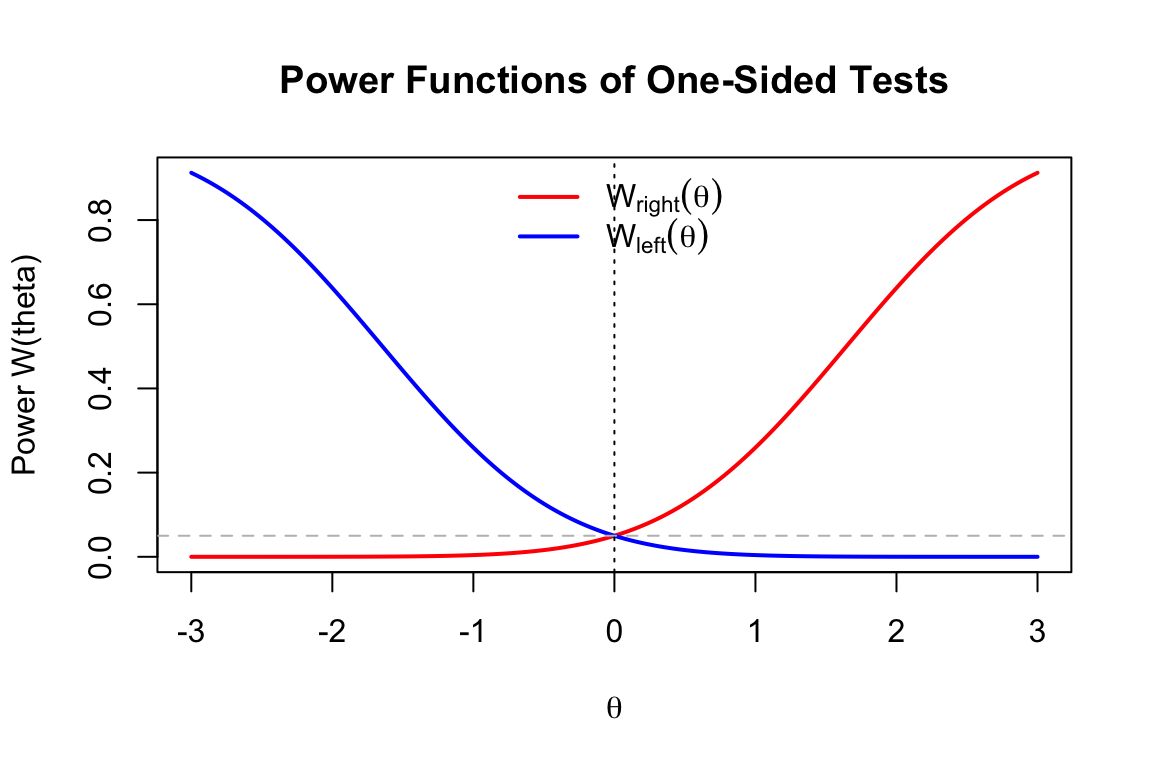
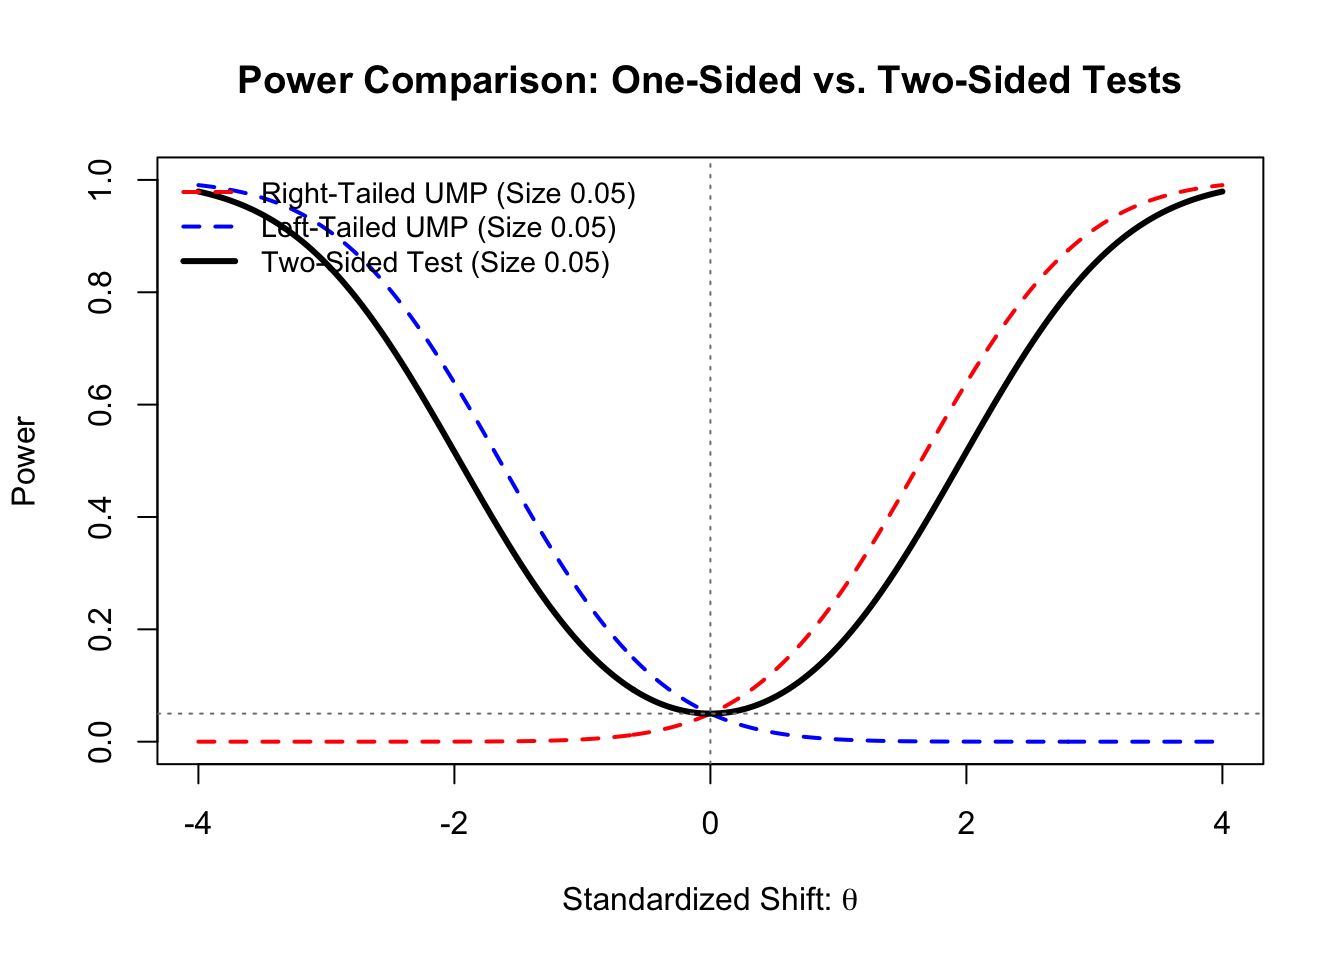
syn2GH from KNW5YYVTFD

diff --git a/teaching/stat850/mathstat/hypothesis.html b/teaching/stat850/mathstat/hypothesis.html
@@ -260,17 +260,18 @@ window.Quarto = {
   <li><a href="#monotone-likelihood-ratio-mlr" id="toc-monotone-likelihood-ratio-mlr" class="nav-link" data-scroll-target="#monotone-likelihood-ratio-mlr"><span class="header-section-number">7.4</span> Monotone Likelihood Ratio (MLR)</a>
   <ul>
   <li><a href="#karlin-rubin-theorem" id="toc-karlin-rubin-theorem" class="nav-link" data-scroll-target="#karlin-rubin-theorem"><span class="header-section-number">7.4.1</span> Karlin-Rubin Theorem</a></li>
-  <li><a href="#non-existence-of-ump-for-two-sided-hypotheses" id="toc-non-existence-of-ump-for-two-sided-hypotheses" class="nav-link" data-scroll-target="#non-existence-of-ump-for-two-sided-hypotheses"><span class="header-section-number">7.4.2</span> Non-Existence of UMP for Two-Sided Hypotheses</a></li>
   </ul></li>
-  <li><a href="#lrt-score-and-walds-tests" id="toc-lrt-score-and-walds-tests" class="nav-link" data-scroll-target="#lrt-score-and-walds-tests"><span class="header-section-number">7.5</span> LRT, Score, and Wald’s Tests</a>
+  <li><a href="#non-existence-of-ump-for-two-sided-hypotheses" id="toc-non-existence-of-ump-for-two-sided-hypotheses" class="nav-link" data-scroll-target="#non-existence-of-ump-for-two-sided-hypotheses"><span class="header-section-number">7.5</span> Non-Existence of UMP for Two-Sided Hypotheses</a></li>
+  <li><a href="#lrt-score-and-walds-tests" id="toc-lrt-score-and-walds-tests" class="nav-link" data-scroll-target="#lrt-score-and-walds-tests"><span class="header-section-number">7.6</span> LRT, Score, and Wald’s Tests</a>
   <ul>
-  <li><a href="#walds-theorem-for-testing-parameter-restrictions" id="toc-walds-theorem-for-testing-parameter-restrictions" class="nav-link" data-scroll-target="#walds-theorem-for-testing-parameter-restrictions"><span class="header-section-number">7.5.1</span> Wald’s Theorem for Testing Parameter Restrictions</a></li>
-  <li><a href="#raos-score-lagrange-multiplier-theorem-for-restricted-models" id="toc-raos-score-lagrange-multiplier-theorem-for-restricted-models" class="nav-link" data-scroll-target="#raos-score-lagrange-multiplier-theorem-for-restricted-models"><span class="header-section-number">7.5.2</span> Rao’s Score (Lagrange Multiplier) Theorem for Restricted Models</a></li>
-  <li><a href="#a-comparison-of-finite-sample-distributions-of-the-three-asymptotic-tests-in-ols" id="toc-a-comparison-of-finite-sample-distributions-of-the-three-asymptotic-tests-in-ols" class="nav-link" data-scroll-target="#a-comparison-of-finite-sample-distributions-of-the-three-asymptotic-tests-in-ols"><span class="header-section-number">7.5.3</span> A Comparison of Finite-Sample Distributions of the Three Asymptotic Tests in OLS</a>
+  <li><a href="#walds-theorem-for-testing-parameter-restrictions" id="toc-walds-theorem-for-testing-parameter-restrictions" class="nav-link" data-scroll-target="#walds-theorem-for-testing-parameter-restrictions"><span class="header-section-number">7.6.1</span> Wald’s Theorem for Testing Parameter Restrictions</a></li>
+  <li><a href="#raos-score-lagrange-multiplier-theorem-for-restricted-models" id="toc-raos-score-lagrange-multiplier-theorem-for-restricted-models" class="nav-link" data-scroll-target="#raos-score-lagrange-multiplier-theorem-for-restricted-models"><span class="header-section-number">7.6.2</span> Rao’s Score (Lagrange Multiplier) Theorem for Restricted Models</a></li>
+  <li><a href="#a-comparison-of-finite-sample-distributions-of-the-three-asymptotic-tests-in-ols" id="toc-a-comparison-of-finite-sample-distributions-of-the-three-asymptotic-tests-in-ols" class="nav-link" data-scroll-target="#a-comparison-of-finite-sample-distributions-of-the-three-asymptotic-tests-in-ols"><span class="header-section-number">7.6.3</span> A Comparison of Finite-Sample Distributions of the Three Asymptotic Tests in OLS</a>
   <ul class="collapse">
-  <li><a href="#exact-finite-sample-distributions-via-the-f-statistic" id="toc-exact-finite-sample-distributions-via-the-f-statistic" class="nav-link" data-scroll-target="#exact-finite-sample-distributions-via-the-f-statistic"><span class="header-section-number">7.5.3.1</span> Exact Finite-Sample Distributions via the F-Statistic</a></li>
-  <li><a href="#visualizing-finite-sample-calibration-size-distortion" id="toc-visualizing-finite-sample-calibration-size-distortion" class="nav-link" data-scroll-target="#visualizing-finite-sample-calibration-size-distortion"><span class="header-section-number">7.5.3.2</span> Visualizing Finite-Sample Calibration (Size Distortion)</a></li>
-  <li><a href="#exact-finite-sample-distribution-calibration-plot" id="toc-exact-finite-sample-distribution-calibration-plot" class="nav-link" data-scroll-target="#exact-finite-sample-distribution-calibration-plot"><span class="header-section-number">7.5.3.3</span> Exact Finite-Sample Distribution Calibration Plot</a></li>
+  <li><a href="#exact-finite-sample-distributions-via-the-f-statistic" id="toc-exact-finite-sample-distributions-via-the-f-statistic" class="nav-link" data-scroll-target="#exact-finite-sample-distributions-via-the-f-statistic"><span class="header-section-number">7.6.3.1</span> Exact Finite-Sample Distributions via the F-Statistic</a></li>
+  <li><a href="#asymptotic-equivalence-in-ols" id="toc-asymptotic-equivalence-in-ols" class="nav-link" data-scroll-target="#asymptotic-equivalence-in-ols"><span class="header-section-number">7.6.3.2</span> Asymptotic Equivalence in OLS</a></li>
+  <li><a href="#visualizing-finite-sample-calibration-size-distortion" id="toc-visualizing-finite-sample-calibration-size-distortion" class="nav-link" data-scroll-target="#visualizing-finite-sample-calibration-size-distortion"><span class="header-section-number">7.6.3.3</span> Visualizing Finite-Sample Calibration (Size Distortion)</a></li>
+  <li><a href="#exact-finite-sample-distribution-calibration-plot" id="toc-exact-finite-sample-distribution-calibration-plot" class="nav-link" data-scroll-target="#exact-finite-sample-distribution-calibration-plot"><span class="header-section-number">7.6.3.4</span> Exact Finite-Sample Distribution Calibration Plot</a></li>
   </ul></li>
   </ul></li>
   </ul>
@@ -980,40 +981,66 @@ Figure&nbsp;7.5: Visualizing Monotonicity of Power Function <span class="math in
 <p>This test form does not depend on the specific <span class="math inline">\(\theta_1\)</span>, so it is UMP for all <span class="math inline">\(\theta &gt; \theta_0\)</span>.</p>
 </div>
 </section>
-<section id="non-existence-of-ump-for-two-sided-hypotheses" class="level3" data-number="7.4.2">
-<h3 data-number="7.4.2" class="anchored" data-anchor-id="non-existence-of-ump-for-two-sided-hypotheses"><span class="header-section-number">7.4.2</span> Non-Existence of UMP for Two-Sided Hypotheses</h3>
+</section>
+<section id="non-existence-of-ump-for-two-sided-hypotheses" class="level2" data-number="7.5">
+<h2 data-number="7.5" class="anchored" data-anchor-id="non-existence-of-ump-for-two-sided-hypotheses"><span class="header-section-number">7.5</span> Non-Existence of UMP for Two-Sided Hypotheses</h2>
 <p>For testing a point null hypothesis <span class="math inline">\(H_0: \theta = \theta^*\)</span> against a two-sided alternative <span class="math inline">\(H_1: \theta \neq \theta^*\)</span> in a family with a monotone likelihood ratio (e.g., Normal, Exponential), a Uniformly Most Powerful (UMP) test generally <strong>does not exist</strong>. The non-existence proof relies on the uniqueness of the Most Powerful (MP) test derived from the Neyman-Pearson Lemma:</p>
 <ol type="1">
-<li><p><strong>Conflict of Optimal Regions:</strong></p>
-<p>Consider a specific alternative <span class="math inline">\(\theta_1 &gt; \theta^*\)</span>. By the Neyman-Pearson Lemma, the MP test <span class="math inline">\(\phi_1\)</span> rejects <span class="math inline">\(H_0\)</span> for large values of the sufficient statistic <span class="math inline">\(T(\mathbf{X}) &gt; k_1\)</span>. Conversely, consider an alternative <span class="math inline">\(\theta_2 &lt; \theta^*\)</span>. The MP test <span class="math inline">\(\phi_2\)</span> rejects <span class="math inline">\(H_0\)</span> for small values of the statistic <span class="math inline">\(T(\mathbf{X}) &lt; k_2\)</span>.</p></li>
-<li><p><strong>Failure of Uniformity:</strong></p>
-<p>A UMP test <span class="math inline">\(\phi^*\)</span> would need to be the MP test for <em>every</em> <span class="math inline">\(\theta \in H_1\)</span>.</p>
+<li><p><strong>Conflict of Optimal Regions:</strong> Consider a specific alternative <span class="math inline">\(\theta_1 &gt; \theta^*\)</span>. By the Neyman-Pearson Lemma, the MP test <span class="math inline">\(\phi_1\)</span> rejects <span class="math inline">\(H_0\)</span> for large values of the sufficient statistic <span class="math inline">\(T(\mathbf{X}) &gt; k_1\)</span>. Conversely, consider an alternative <span class="math inline">\(\theta_2 &lt; \theta^*\)</span>. The MP test <span class="math inline">\(\phi_2\)</span> rejects <span class="math inline">\(H_0\)</span> for small values of the statistic <span class="math inline">\(T(\mathbf{X}) &lt; k_2\)</span>.</p></li>
+<li><p><strong>Failure of Uniformity:</strong> A UMP test <span class="math inline">\(\phi^*\)</span> would need to be the MP test for <em>every</em> <span class="math inline">\(\theta \in H_1\)</span>.</p>
 <ul>
 <li>For <span class="math inline">\(\phi^*\)</span> to be most powerful against <span class="math inline">\(\theta_1\)</span>, it must be equivalent to <span class="math inline">\(\phi_1\)</span> (rejecting in the right tail).</li>
 <li>For <span class="math inline">\(\phi^*\)</span> to be most powerful against <span class="math inline">\(\theta_2\)</span>, it must be equivalent to <span class="math inline">\(\phi_2\)</span> (rejecting in the left tail).</li>
 </ul></li>
-<li><p><strong>Biased Power Function:</strong></p>
-<p>The MP test <span class="math inline">\(\phi_1\)</span> (Right-Sided) has a power function that drops below the size <span class="math inline">\(\alpha\)</span> for values <span class="math inline">\(\theta &lt; \theta^*\)</span>. Therefore, it cannot be the most powerful test for <span class="math inline">\(\theta_2\)</span>, as there exists a valid test (e.g., <span class="math inline">\(\phi_2\)</span>) with power strictly greater than <span class="math inline">\(\alpha\)</span> at <span class="math inline">\(\theta_2\)</span>.</p></li>
+<li><p><strong>Biased Power Function:</strong> The MP test <span class="math inline">\(\phi_1\)</span> (Right-Sided) has a power function that drops below the size <span class="math inline">\(\alpha\)</span> for values <span class="math inline">\(\theta &lt; \theta^*\)</span>. Therefore, it cannot be the most powerful test for <span class="math inline">\(\theta_2\)</span>, as there exists a valid test (e.g., <span class="math inline">\(\phi_2\)</span>) with power strictly greater than <span class="math inline">\(\alpha\)</span> at <span class="math inline">\(\theta_2\)</span>.</p></li>
 </ol>
 <p>Since no single critical region can simultaneously maximize power for both <span class="math inline">\(\theta &gt; \theta^*\)</span> and <span class="math inline">\(\theta &lt; \theta^*\)</span>, no UMP test exists. We typically restrict our search to <strong>Unbiased</strong> tests (UMPU) to resolve this.</p>
+<div class="cell">
+<div class="cell-output-display">
+<div id="fig-two-powers-ill" class="quarto-float quarto-figure quarto-figure-center anchored">
+<figure class="quarto-float quarto-float-fig figure">
+<div aria-describedby="fig-two-powers-ill-caption-0ceaefa1-69ba-4598-a22c-09a6ac19f8ca">
+<img src="hypothesis_files/figure-html/fig-two-powers-ill-1.png" class="img-fluid figure-img" width="576">
+</div>
+<figcaption class="quarto-float-caption-bottom quarto-float-caption quarto-float-fig" id="fig-two-powers-ill-caption-0ceaefa1-69ba-4598-a22c-09a6ac19f8ca">
+Figure&nbsp;7.6: Illustration of the Conflict of Optimal Regions: Power functions for the Right-Tailed (red) and Left-Tailed (blue) UMP tests.
+</figcaption>
+</figure>
+</div>
+</div>
+</div>
+<div id="exm-ump-normal" class="theorem example">
+<p><span class="theorem-title"><strong>Example 7.5 (Non-Existence of UMP for the Normal Mean)</strong></span> Let <span class="math inline">\(X_1, \dots, X_n \overset{i.i.d.}{\sim} N(\mu, \sigma^2)\)</span> with known variance <span class="math inline">\(\sigma^2\)</span>. We wish to test <span class="math inline">\(H_0: \mu = \mu_0\)</span> against <span class="math inline">\(H_1: \mu \neq \mu_0\)</span> at significance level <span class="math inline">\(\alpha\)</span>.</p>
+<p>Because the Normal distribution belongs to the exponential family, the sufficient statistic <span class="math inline">\(\overline{X}\)</span> possesses the Monotone Likelihood Ratio (MLR) property with respect to <span class="math inline">\(\mu\)</span>. By the Karlin-Rubin Theorem, this guarantees the existence of UMP tests for one-sided alternatives:</p>
+<ul>
+<li><strong>Right-Tailed UMP (<span class="math inline">\(\phi_R\)</span>):</strong> For <span class="math inline">\(H_1: \mu &gt; \mu_0\)</span>, the UMP test of size <span class="math inline">\(\alpha\)</span> rejects <span class="math inline">\(H_0\)</span> when <span class="math inline">\(\frac{\sqrt{n}(\overline{X} - \mu_0)}{\sigma} &gt; z_{1-\alpha}\)</span>.</li>
+<li><strong>Left-Tailed UMP (<span class="math inline">\(\phi_L\)</span>):</strong> For <span class="math inline">\(H_1: \mu &lt; \mu_0\)</span>, the UMP test of size <span class="math inline">\(\alpha\)</span> rejects <span class="math inline">\(H_0\)</span> when <span class="math inline">\(\frac{\sqrt{n}(\overline{X} - \mu_0)}{\sigma} &lt; -z_{1-\alpha}\)</span>.</li>
+</ul>
+<p>Now consider the standard <strong>Two-Sided Test (<span class="math inline">\(\phi_{Two}\)</span>)</strong> of size <span class="math inline">\(\alpha\)</span>, which splits the rejection region to cover both directions. It rejects when <span class="math inline">\(\left| \frac{\sqrt{n}(\overline{X} - \mu_0)}{\sigma} \right| &gt; z_{1-\alpha/2}\)</span>.</p>
+<p><strong>The Power Deficit:</strong> Because <span class="math inline">\(z_{1-\alpha/2} &gt; z_{1-\alpha}\)</span> (e.g., for <span class="math inline">\(\alpha = 0.05\)</span>, <span class="math inline">\(1.96 &gt; 1.645\)</span>), the two-sided test requires more extreme evidence to reject in either specific direction.</p>
+<ul>
+<li>For any true mean <span class="math inline">\(\mu &gt; \mu_0\)</span>, the two-sided test has <strong>strictly lower power</strong> than the right-tailed UMP test.</li>
+<li>For any true mean <span class="math inline">\(\mu &lt; \mu_0\)</span>, the two-sided test has <strong>strictly lower power</strong> than the left-tailed UMP test.</li>
+</ul>
+<p>Since <span class="math inline">\(\phi_{Two}\)</span> is beaten by <span class="math inline">\(\phi_R\)</span> for positive shifts and beaten by <span class="math inline">\(\phi_L\)</span> for negative shifts, no single test is “uniformly” most powerful across the entire alternative space <span class="math inline">\(H_1: \mu \neq \mu_0\)</span>.</p>
+</div>
 <div class="cell">
 <div class="cell-output-display">
 <div id="fig-two-powers-normal" class="quarto-float quarto-figure quarto-figure-center anchored">
 <figure class="quarto-float quarto-float-fig figure">
 <div aria-describedby="fig-two-powers-normal-caption-0ceaefa1-69ba-4598-a22c-09a6ac19f8ca">
-<img src="hypothesis_files/figure-html/fig-two-powers-normal-1.png" class="img-fluid figure-img" width="576">
+<img src="hypothesis_files/figure-html/fig-two-powers-normal-1.png" class="img-fluid figure-img" width="672">
 </div>
 <figcaption class="quarto-float-caption-bottom quarto-float-caption quarto-float-fig" id="fig-two-powers-normal-caption-0ceaefa1-69ba-4598-a22c-09a6ac19f8ca">
-Figure&nbsp;7.6: Illustration of Non-existence of UMP Tests for Two-sided Tests
+Figure&nbsp;7.7: Power functions of size alpha=0.05 tests for a Normal mean. The two-sided test (black) is everywhere less powerful than the respective optimal one-sided test (red or blue) for any true difference.
 </figcaption>
 </figure>
 </div>
 </div>
 </div>
 </section>
-</section>
-<section id="lrt-score-and-walds-tests" class="level2" data-number="7.5">
-<h2 data-number="7.5" class="anchored" data-anchor-id="lrt-score-and-walds-tests"><span class="header-section-number">7.5</span> LRT, Score, and Wald’s Tests</h2>
+<section id="lrt-score-and-walds-tests" class="level2" data-number="7.6">
+<h2 data-number="7.6" class="anchored" data-anchor-id="lrt-score-and-walds-tests"><span class="header-section-number">7.6</span> LRT, Score, and Wald’s Tests</h2>
 <div id="thm-wilks-general" class="theorem">
 <p><span class="theorem-title"><strong>Theorem 7.4 (Wilks’ Theorem for General Nested Models)</strong></span> Let <span class="math inline">\(\mathbf{Y} = (Y_1, \dots, Y_n)\)</span> be an i.i.d. sample from a distribution <span class="math inline">\(f(\mathbf{y}; \boldsymbol{\theta})\)</span> with <span class="math inline">\(\boldsymbol{\theta} \in \Theta \subseteq \mathbb{R}^p\)</span>. Let <span class="math inline">\(\Theta_0\)</span> be a lower-dimensional subspace of <span class="math inline">\(\Theta\)</span> defined by <span class="math inline">\(q\)</span> independent constraints, such that <span class="math inline">\(\dim(\Theta_0) = p - q\)</span>.</p>
 <p>Consider testing the nested hypotheses: <span class="math display">\[
@@ -1122,14 +1149,14 @@ D \xrightarrow{d} \chi^2_q
 <img src="hypothesis_files/figure-html/fig-lrt-geometry-1.png" class="img-fluid figure-img" width="576">
 </div>
 <figcaption class="quarto-float-caption-bottom quarto-float-caption quarto-float-fig" id="fig-lrt-geometry-caption-0ceaefa1-69ba-4598-a22c-09a6ac19f8ca">
-Figure&nbsp;7.7: The geometry of restricted optimization. Blue dot is the unrestricted MLE (center). The red dot represents the projected nuisance parameter center on the null line. The purple cross is the restricted MLE.
+Figure&nbsp;7.8: The geometry of restricted optimization. Blue dot is the unrestricted MLE (center). The red dot represents the projected nuisance parameter center on the null line. The purple cross is the restricted MLE.
 </figcaption>
 </figure>
 </div>
 </div>
 </div>
 <div id="exm-lrt-normal" class="theorem example">
-<p><span class="theorem-title"><strong>Example 7.5</strong></span> <strong>LRT for Normal Mean with Unknown Variance</strong></p>
+<p><span class="theorem-title"><strong>Example 7.6</strong></span> <strong>LRT for Normal Mean with Unknown Variance</strong></p>
 <p>Let <span class="math inline">\(X_1, \dots, X_n \overset{i.i.d.}{\sim} N(\mu, \sigma^2)\)</span> where both <span class="math inline">\(\mu\)</span> and <span class="math inline">\(\sigma^2\)</span> are unknown. The parameter vector is <span class="math inline">\(\theta = (\mu, \sigma^2)\)</span>. We wish to test: <span class="math display">\[
 H_0: \mu = \mu_0 \quad \text{vs} \quad H_1: \mu \neq \mu_0
 \]</span></p>
@@ -1168,8 +1195,8 @@ D = n \ln \left( 1 + \frac{T^2}{n-1} \right) \approx n \left( \frac{T^2}{n-1} \r
 \]</span></p>
 <p>As <span class="math inline">\(n \to \infty\)</span>, <span class="math inline">\(T^2 \xrightarrow{d} \chi^2_1\)</span>, confirming the theorem.</p>
 </div>
-<section id="walds-theorem-for-testing-parameter-restrictions" class="level3" data-number="7.5.1">
-<h3 data-number="7.5.1" class="anchored" data-anchor-id="walds-theorem-for-testing-parameter-restrictions"><span class="header-section-number">7.5.1</span> Wald’s Theorem for Testing Parameter Restrictions</h3>
+<section id="walds-theorem-for-testing-parameter-restrictions" class="level3" data-number="7.6.1">
+<h3 data-number="7.6.1" class="anchored" data-anchor-id="walds-theorem-for-testing-parameter-restrictions"><span class="header-section-number">7.6.1</span> Wald’s Theorem for Testing Parameter Restrictions</h3>
 <p>The Wald Test evaluates the distance between the unrestricted Maximum Likelihood Estimator (MLE) and the null hypothesis value, standardized by the curvature of the log-likelihood at the unrestricted estimate. Unlike the Score test, the Wald test requires estimating the full, unrestricted model.</p>
 <div id="thm-wald" class="theorem">
 <p><span class="theorem-title"><strong>Theorem 7.5 (Asymptotic Distribution of the Wald Statistic)</strong></span> Let <span class="math inline">\(\mathbf{Y} = (Y_1, \dots, Y_n)\)</span> be an i.i.d. sample from a regular family of distributions with parameters <span class="math inline">\(\boldsymbol{\theta} \in \Theta \subseteq \mathbb{R}^{p}\)</span>. Partition the parameter vector as <span class="math inline">\(\boldsymbol{\theta} = (\boldsymbol{\theta}_0^T, \boldsymbol{\theta}_1^T)^T\)</span>, where <span class="math inline">\(\boldsymbol{\theta}_0\)</span> is the <span class="math inline">\(q\)</span>-dimensional parameter of interest and <span class="math inline">\(\boldsymbol{\theta}_1\)</span> is the <span class="math inline">\((p-q)\)</span>-dimensional nuisance parameter. Consider the test: <span class="math display">\[
@@ -1202,7 +1229,7 @@ W = (\hat{\boldsymbol{\theta}}_0 - \boldsymbol{\theta}_0^*)^T \Sigma_{00}^{-1}(\
 \]</span></p>
 </div>
 <div id="exm-wald-normal" class="theorem example">
-<p><span class="theorem-title"><strong>Example 7.6</strong></span> <strong>Wald Test for Normal Mean with Unknown Variance</strong></p>
+<p><span class="theorem-title"><strong>Example 7.7</strong></span> <strong>Wald Test for Normal Mean with Unknown Variance</strong></p>
 <p>Let <span class="math inline">\(X_1, \dots, X_n \overset{i.i.d.}{\sim} N(\mu, \sigma^2)\)</span> where both <span class="math inline">\(\mu\)</span> and <span class="math inline">\(\sigma^2\)</span> are unknown. The parameter vector is <span class="math inline">\(\boldsymbol{\theta} = (\mu, \sigma^2)^T\)</span>. We wish to test: <span class="math display">\[
 H_0: \mu = \mu_0 \quad \text{vs} \quad H_1: \mu \neq \mu_0
 \]</span></p>
@@ -1234,8 +1261,8 @@ W = (\overline{X} - \mu_0) \left( \frac{n}{\hat{\sigma}^2} \right) (\overline{X}
 </ol>
 </div>
 </section>
-<section id="raos-score-lagrange-multiplier-theorem-for-restricted-models" class="level3" data-number="7.5.2">
-<h3 data-number="7.5.2" class="anchored" data-anchor-id="raos-score-lagrange-multiplier-theorem-for-restricted-models"><span class="header-section-number">7.5.2</span> Rao’s Score (Lagrange Multiplier) Theorem for Restricted Models</h3>
+<section id="raos-score-lagrange-multiplier-theorem-for-restricted-models" class="level3" data-number="7.6.2">
+<h3 data-number="7.6.2" class="anchored" data-anchor-id="raos-score-lagrange-multiplier-theorem-for-restricted-models"><span class="header-section-number">7.6.2</span> Rao’s Score (Lagrange Multiplier) Theorem for Restricted Models</h3>
 <p>The asymptotic distribution of the Score Test statistic relies on the behavior of the gradient of the log-likelihood (the Score vector) evaluated at the restricted Maximum Likelihood Estimator. Because it explicitly evaluates the “force” pushing against the null hypothesis constraint, it is equivalently known as the <strong>Lagrange Multiplier (LM) Test</strong>. This theorem provides a powerful method for hypothesis testing that only requires fitting the model under the null hypothesis.</p>
 <div id="thm-score" class="theorem">
 <p><span class="theorem-title"><strong>Theorem 7.6 (Asymptotic Distribution of the Score Statistic)</strong></span> Let <span class="math inline">\(\mathbf{Y} = (Y_1, \dots, Y_n)\)</span> be an i.i.d. sample from a regular family of distributions with parameters <span class="math inline">\(\boldsymbol{\theta} \in \Theta \subseteq \mathbb{R}^{p}\)</span>. Partition the parameter vector as <span class="math inline">\(\boldsymbol{\theta} = (\boldsymbol{\theta}_0^T, \boldsymbol{\theta}_1^T)^T\)</span>, where <span class="math inline">\(\boldsymbol{\theta}_0\)</span> is the <span class="math inline">\(q\)</span>-dimensional parameter of interest and <span class="math inline">\(\boldsymbol{\theta}_1\)</span> is the <span class="math inline">\((p-q)\)</span>-dimensional nuisance parameter. Consider the test: <span class="math display">\[
@@ -1282,7 +1309,7 @@ S = \mathbf{U}_0(\hat{\boldsymbol{\theta}}_0)^T \Sigma_{00} \mathbf{U}_0(\hat{\b
 </ol>
 </div>
 <div id="exm-score-normal" class="theorem example">
-<p><span class="theorem-title"><strong>Example 7.7</strong></span> <strong>Score Test for Normal Mean with Unknown Variance</strong></p>
+<p><span class="theorem-title"><strong>Example 7.8</strong></span> <strong>Score Test for Normal Mean with Unknown Variance</strong></p>
 <p>Let <span class="math inline">\(X_1, \dots, X_n \overset{i.i.d.}{\sim} N(\mu, \sigma^2)\)</span> where both <span class="math inline">\(\mu\)</span> and <span class="math inline">\(\sigma^2\)</span> are unknown. The parameter vector is <span class="math inline">\(\boldsymbol{\theta} = (\mu, \sigma^2)^T\)</span>. We wish to test: <span class="math display">\[
 H_0: \mu = \mu_0 \quad \text{vs} \quad H_1: \mu \neq \mu_0
 \]</span></p>
@@ -1334,47 +1361,72 @@ S = \frac{n(\overline{X} - \mu_0)^2}{\hat{\sigma}_0^2} \xrightarrow{d} \chi^2_1
 \]</span> This is highly analogous to the squared t-statistic, but specifically uses the variance estimated under the null hypothesis constraint.</p>
 </div>
 </section>
-<section id="a-comparison-of-finite-sample-distributions-of-the-three-asymptotic-tests-in-ols" class="level3" data-number="7.5.3">
-<h3 data-number="7.5.3" class="anchored" data-anchor-id="a-comparison-of-finite-sample-distributions-of-the-three-asymptotic-tests-in-ols"><span class="header-section-number">7.5.3</span> A Comparison of Finite-Sample Distributions of the Three Asymptotic Tests in OLS</h3>
-<section id="exact-finite-sample-distributions-via-the-f-statistic" class="level4" data-number="7.5.3.1">
-<h4 data-number="7.5.3.1" class="anchored" data-anchor-id="exact-finite-sample-distributions-via-the-f-statistic"><span class="header-section-number">7.5.3.1</span> Exact Finite-Sample Distributions via the F-Statistic</h4>
+<section id="a-comparison-of-finite-sample-distributions-of-the-three-asymptotic-tests-in-ols" class="level3" data-number="7.6.3">
+<h3 data-number="7.6.3" class="anchored" data-anchor-id="a-comparison-of-finite-sample-distributions-of-the-three-asymptotic-tests-in-ols"><span class="header-section-number">7.6.3</span> A Comparison of Finite-Sample Distributions of the Three Asymptotic Tests in OLS</h3>
+<section id="exact-finite-sample-distributions-via-the-f-statistic" class="level4" data-number="7.6.3.1">
+<h4 data-number="7.6.3.1" class="anchored" data-anchor-id="exact-finite-sample-distributions-via-the-f-statistic"><span class="header-section-number">7.6.3.1</span> Exact Finite-Sample Distributions via the F-Statistic</h4>
 <p>When testing linear restrictions in Ordinary Least Squares (OLS) under the assumption of normal errors, we do not need to rely on asymptotic approximations. The true, exact finite-sample test statistic follows an <span class="math inline">\(F\)</span>-distribution.</p>
 <p>Because the Wald (<span class="math inline">\(W\)</span>), Likelihood Ratio (<span class="math inline">\(LR\)</span>), and Score (<span class="math inline">\(S\)</span>) statistics are strictly monotonic algebraic transformations of the exact finite-sample <span class="math inline">\(F\)</span>-statistic, we can use the transformation of variables to derive their exact finite-sample Cumulative Distribution Functions (CDFs).</p>
 <p>Let us consider testing a linear hypothesis involving <span class="math inline">\(q\)</span> restrictions in an OLS model with <span class="math inline">\(k\)</span> total parameters and <span class="math inline">\(n\)</span> observations. Let <span class="math inline">\(F\)</span> denote the exact finite-sample <span class="math inline">\(F\)</span>-statistic, which follows an <span class="math inline">\(F_{q, n-k}\)</span> distribution. Let <span class="math inline">\(G_{q, n-k}(x)\)</span> denote the CDF of this <span class="math inline">\(F\)</span>-distribution.</p>
 <p>By isolating <span class="math inline">\(F\)</span> in the algebraic definitions of <span class="math inline">\(W\)</span>, <span class="math inline">\(LR\)</span>, and <span class="math inline">\(S\)</span>, we derive their exact finite-sample CDFs:</p>
-<ol type="1">
-<li><strong>Wald Statistic (<span class="math inline">\(W\)</span>):</strong></li>
-</ol>
-<p><span class="math display">\[
-W = \frac{nq}{n-k} F \implies F = \frac{n-k}{nq} W
-\]</span> <span class="math display">\[
-F_W(w) = P(W \le w) = G_{q, n-k}\left( \frac{n-k}{nq} w \right)
+<p><strong>Expressing the Test Statistics via Residual Sums of Squares</strong></p>
+<p>Let <span class="math inline">\(RSS_1\)</span> denote the residual sum of squares from the <strong>full</strong> (unrestricted) model (estimating all <span class="math inline">\(k\)</span> parameters under <span class="math inline">\(H_1\)</span>), and let <span class="math inline">\(RSS_0\)</span> denote the residual sum of squares from the <strong>restricted</strong> model (imposing the <span class="math inline">\(q\)</span> constraints of <span class="math inline">\(H_0\)</span>).</p>
+<p>Because imposing constraints can only degrade the fit of the model to the training data, we know that <span class="math inline">\(RSS_0 \ge RSS_1\)</span>. The difference <span class="math inline">\((RSS_0 - RSS_1)\)</span> isolates the exact loss of fit caused by enforcing the null hypothesis.</p>
+<p>The exact finite-sample <span class="math inline">\(F\)</span>-statistic is the ratio of this loss of fit to the unrestricted noise, scaled by their respective degrees of freedom: <span class="math display">\[
+F = \frac{(RSS_0 - RSS_1) / q}{RSS_1 / (n-k)}
 \]</span></p>
-<ol start="2" type="1">
-<li><strong>Likelihood Ratio Statistic (<span class="math inline">\(LR\)</span>):</strong></li>
-</ol>
-<p><span class="math display">\[
-LR = n \ln \left( 1 + \frac{q}{n-k} F \right) \implies F = \frac{n-k}{q} (e^{LR/n} - 1)
-\]</span> <span class="math display">\[
-F_{LR}(l) = P(LR \le l) = G_{q, n-k}\left( \frac{n-k}{q} (e^{l/n} - 1) \right)
+<p>By substituting this definition of <span class="math inline">\(F\)</span> into the algebraic transformations derived previously, the “Holy Trinity” of asymptotic tests can be expressed beautifully as functions of the residual sums of squares:</p>
+<p><strong>1. Wald Statistic (<span class="math inline">\(W\)</span>)</strong> The Wald test standardizes the loss of fit using the <strong>unrestricted</strong> variance estimate (<span class="math inline">\(\hat{\sigma}^2 = RSS_1/n\)</span>). Substituting the <span class="math inline">\(F\)</span> formula into <span class="math inline">\(W = \frac{nq}{n-k} F\)</span>: <span class="math display">\[
+W = n \left( \frac{RSS_0 - RSS_1}{RSS_1} \right)
 \]</span></p>
-<ol start="3" type="1">
-<li><strong>Score Statistic (<span class="math inline">\(S\)</span>):</strong></li>
-</ol>
-<p><span class="math display">\[
-S = \frac{n q F}{n-k + q F} \implies F = \frac{S(n-k)}{q(n - S)}
-\]</span> Because the Score statistic is bounded (<span class="math inline">\(S &lt; n\)</span>), its exact CDF for <span class="math inline">\(s &lt; n\)</span> is: <span class="math display">\[
-F_S(s) = P(S \le s) = G_{q, n-k}\left( \frac{s(n-k)}{q(n - s)} \right)
-\]</span> For <span class="math inline">\(s \ge n\)</span>, <span class="math inline">\(F_S(s) = 1\)</span>.</p>
+<p><strong>2. Likelihood Ratio Statistic (<span class="math inline">\(LR\)</span>)</strong> The Likelihood Ratio test evaluates the natural logarithm of the ratio of the two likelihoods, which simplifies directly to the log-ratio of the residual sums of squares. Substituting <span class="math inline">\(F\)</span> into <span class="math inline">\(LR = n \ln \left( 1 + \frac{q}{n-k} F \right)\)</span>: <span class="math display">\[
+LR = n \ln \left( \frac{RSS_0}{RSS_1} \right)
+\]</span></p>
+<p><strong>3. Score Statistic (<span class="math inline">\(S\)</span>)</strong> The Score test standardizes the loss of fit using the <strong>restricted</strong> variance estimate (<span class="math inline">\(\hat{\sigma}_0^2 = RSS_0/n\)</span>). Substituting <span class="math inline">\(F\)</span> into <span class="math inline">\(S = \frac{n q F}{n-k + q F}\)</span>: <span class="math display">\[
+S = n \left( \frac{RSS_0 - RSS_1}{RSS_0} \right)
+\]</span></p>
 </section>
-<section id="visualizing-finite-sample-calibration-size-distortion" class="level4" data-number="7.5.3.2">
-<h4 data-number="7.5.3.2" class="anchored" data-anchor-id="visualizing-finite-sample-calibration-size-distortion"><span class="header-section-number">7.5.3.2</span> Visualizing Finite-Sample Calibration (Size Distortion)</h4>
+<section id="asymptotic-equivalence-in-ols" class="level4" data-number="7.6.3.2">
+<h4 data-number="7.6.3.2" class="anchored" data-anchor-id="asymptotic-equivalence-in-ols"><span class="header-section-number">7.6.3.2</span> Asymptotic Equivalence in OLS</h4>
+<p>Having established the exact algebraic relationship between the three test statistics and the finite-sample <span class="math inline">\(F\)</span>-statistic, we can use standard OLS large-sample theory to rigorously prove that all three converge to the exact same <span class="math inline">\(\chi^2_q\)</span> asymptotic distribution.</p>
+<div class="proof">
+<p><span class="proof-title"><em>Proof</em>. </span><strong>1. The Asymptotic Limit of the Scaled F-Statistic</strong> Under the null hypothesis <span class="math inline">\(H_0\)</span> (and assuming standard regularity conditions for OLS), the numerator of the <span class="math inline">\(F\)</span>-statistic represents the loss of fit, which asymptotically follows a Chi-square distribution scaled by the true error variance <span class="math inline">\(\sigma^2\)</span>: <span class="math display">\[
+(RSS_0 - RSS_1) \xrightarrow{d} \sigma^2 \chi^2_q
+\]</span> The denominator of the <span class="math inline">\(F\)</span>-statistic is the unbiased estimator of the error variance, which converges in probability to the true variance by the Law of Large Numbers: <span class="math display">\[
+\frac{RSS_1}{n-k} \xrightarrow{p} \sigma^2
+\]</span> By Slutsky’s Theorem, dividing the convergent numerator by the convergent denominator cancels out the unknown <span class="math inline">\(\sigma^2\)</span>, yielding the foundational limit: <span class="math display">\[
+qF = \frac{RSS_0 - RSS_1}{RSS_1 / (n-k)} \xrightarrow{d} \chi^2_q
+\]</span></p>
+<p><strong>2. Convergence of the Wald Statistic (<span class="math inline">\(W\)</span>)</strong> We previously defined the Wald statistic algebraically as: <span class="math display">\[
+W = \frac{n}{n-k} (qF)
+\]</span> As <span class="math inline">\(n \to \infty\)</span>, the ratio of the sample size to the degrees of freedom <span class="math inline">\(\left(\frac{n}{n-k}\right)\)</span> converges to <span class="math inline">\(1\)</span>. Applying Slutsky’s Theorem again, the Wald statistic converges directly to the scaled <span class="math inline">\(F\)</span>-statistic: <span class="math display">\[
+W \xrightarrow{d} 1 \cdot \chi^2_q = \chi^2_q
+\]</span></p>
+<p><strong>3. Convergence of the Likelihood Ratio Statistic (<span class="math inline">\(LR\)</span>)</strong> The <span class="math inline">\(LR\)</span> statistic is defined via the natural logarithm: <span class="math display">\[
+LR = n \ln \left( 1 + \frac{qF}{n-k} \right)
+\]</span> Because <span class="math inline">\(qF\)</span> converges to a <span class="math inline">\(\chi^2_q\)</span> distribution, it is bounded in probability, meaning <span class="math inline">\(\frac{qF}{n-k} = O_p(n^{-1})\)</span>. As <span class="math inline">\(n \to \infty\)</span>, this term approaches zero. We can apply the first-order Taylor expansion <span class="math inline">\(\ln(1 + x) \approx x\)</span> for small <span class="math inline">\(x\)</span>: <span class="math display">\[
+LR \approx n \left( \frac{qF}{n-k} \right) = \frac{n}{n-k}(qF)
+\]</span> This first-order approximation is exactly the Wald statistic. Therefore, the difference between <span class="math inline">\(LR\)</span> and <span class="math inline">\(W\)</span> vanishes asymptotically, giving: <span class="math display">\[
+LR \xrightarrow{d} \chi^2_q
+\]</span></p>
+<p><strong>4. Convergence of the Score Statistic (<span class="math inline">\(S\)</span>)</strong> The Score statistic is algebraically defined as: <span class="math display">\[
+S = \frac{n q F}{n-k + q F}
+\]</span> Dividing the numerator and denominator by <span class="math inline">\(n-k\)</span> yields: <span class="math display">\[
+S = \frac{\frac{n}{n-k}(qF)}{1 + \frac{qF}{n-k}} = \frac{W}{1 + \frac{qF}{n-k}}
+\]</span> As established, <span class="math inline">\(\frac{qF}{n-k} \xrightarrow{p} 0\)</span>. The denominator converges in probability to <span class="math inline">\(1\)</span>, meaning the Score statistic perfectly tracks the Wald statistic in the limit: <span class="math display">\[
+S \xrightarrow{d} \frac{W}{1} \xrightarrow{d} \chi^2_q
+\]</span></p>
+<p><strong>Conclusion:</strong> While the algebraic inequality <span class="math inline">\(W \ge LR \ge S\)</span> holds strictly in any finite sample, the differences between the statistics are of order <span class="math inline">\(O_p(n^{-1})\)</span>. As <span class="math inline">\(n \to \infty\)</span>, the “gaps” between them shrink to zero, and all three provide asymptotically equivalent tests against the <span class="math inline">\(\chi^2_q\)</span> distribution.</p>
+</div>
+</section>
+<section id="visualizing-finite-sample-calibration-size-distortion" class="level4" data-number="7.6.3.3">
+<h4 data-number="7.6.3.3" class="anchored" data-anchor-id="visualizing-finite-sample-calibration-size-distortion"><span class="header-section-number">7.6.3.3</span> Visualizing Finite-Sample Calibration (Size Distortion)</h4>
 <p>To visualize how badly the asymptotic <span class="math inline">\(\chi^2_q\)</span> approximation distorts the Type I error rates in finite samples, we can plot the true Cumulative Distribution Function (CDF) of the asymptotic p-values.</p>
 <p>If a test is perfectly calibrated, the probability that its p-value is less than a nominal threshold <span class="math inline">\(\alpha\)</span> should be exactly <span class="math inline">\(\alpha\)</span>, forming a perfect <span class="math inline">\(y = x\)</span> diagonal line (the Uniform(0,1) CDF).</p>
 <p>The event that the asymptotic p-value is less than <span class="math inline">\(\alpha\)</span> is mathematically equivalent to the test statistic being greater than the <span class="math inline">\(\chi^2_q\)</span> critical value (<span class="math inline">\(c_\alpha\)</span>). Therefore, the true rejection probability <span class="math inline">\(P(p &lt; \alpha)\)</span> is exactly <span class="math inline">\(1 - F(c_\alpha)\)</span>, where <span class="math inline">\(F\)</span> is the exact finite-sample CDF derived above.</p>
 </section>
-<section id="exact-finite-sample-distribution-calibration-plot" class="level4" data-number="7.5.3.3">
-<h4 data-number="7.5.3.3" class="anchored" data-anchor-id="exact-finite-sample-distribution-calibration-plot"><span class="header-section-number">7.5.3.3</span> Exact Finite-Sample Distribution Calibration Plot</h4>
+<section id="exact-finite-sample-distribution-calibration-plot" class="level4" data-number="7.6.3.4">
+<h4 data-number="7.6.3.4" class="anchored" data-anchor-id="exact-finite-sample-distribution-calibration-plot"><span class="header-section-number">7.6.3.4</span> Exact Finite-Sample Distribution Calibration Plot</h4>
 <p>The following code allows you to adjust the sample size (<span class="math inline">\(n\)</span>) and the number of parameters (<span class="math inline">\(k\)</span>) to observe how the finite-sample rejection rates of the three asymptotic tests (Wald, Likelihood Ratio, and Score) converge toward the ideal Uniform(0,1) calibration.</p>
 <div class="cell">
 <details class="code-fold">
@@ -1450,7 +1502,7 @@ F_S(s) = P(S \le s) = G_{q, n-k}\left( \frac{s(n-k)}{q(n - s)} \right)
 <img src="hypothesis_files/figure-html/fig-calibration-tuning-1.png" class="img-fluid figure-img" width="1152">
 </div>
 <figcaption class="quarto-float-caption-bottom quarto-float-caption quarto-float-fig" id="fig-calibration-tuning-caption-0ceaefa1-69ba-4598-a22c-09a6ac19f8ca">
-Figure&nbsp;7.8: Exact Analytical CDFs of Asymptotic P-values
+Figure&nbsp;7.9: Exact Analytical CDFs of Asymptotic P-values
 </figcaption>
 </figure>
 </div>